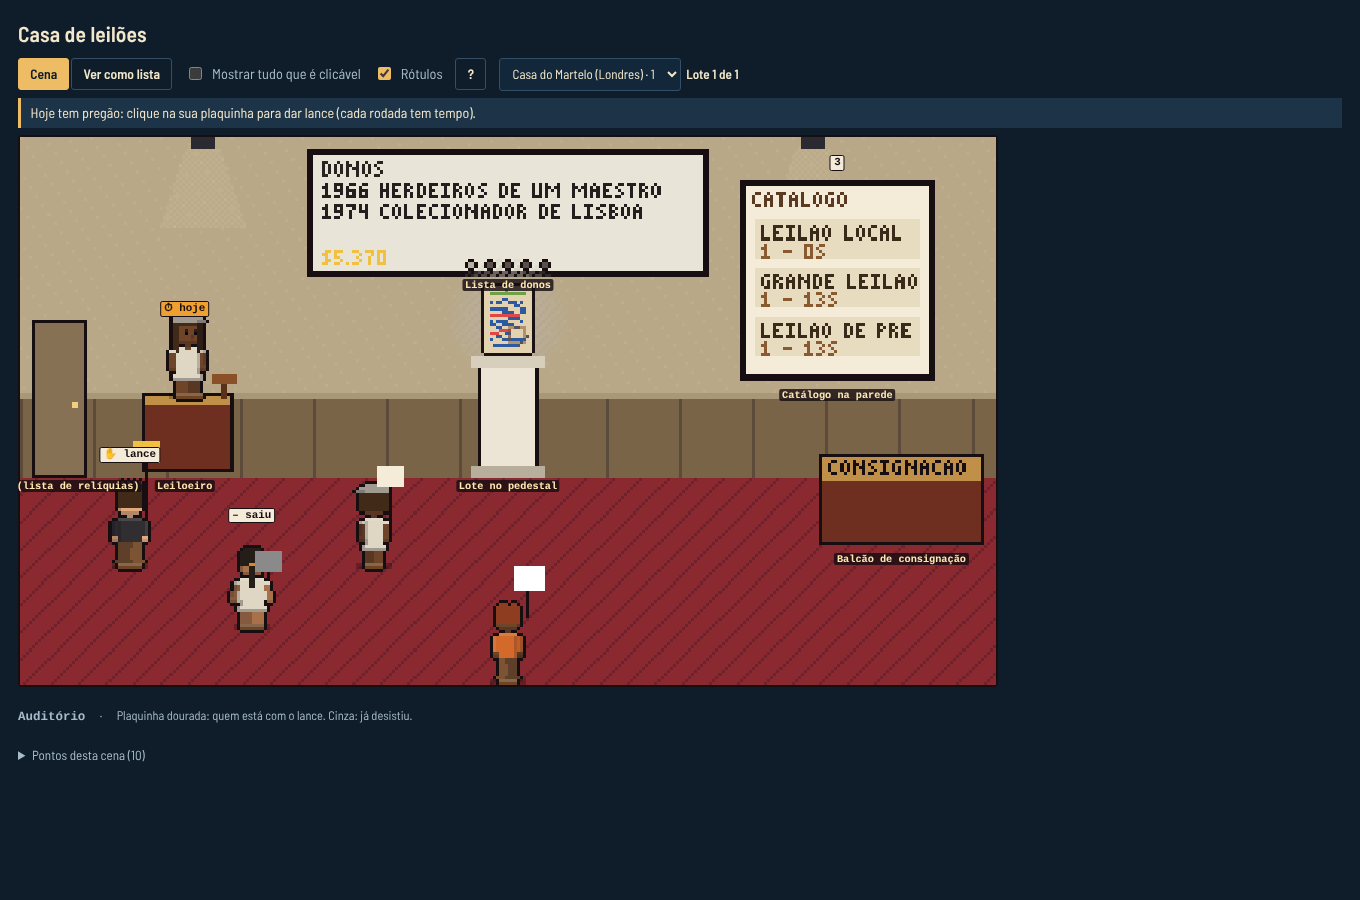
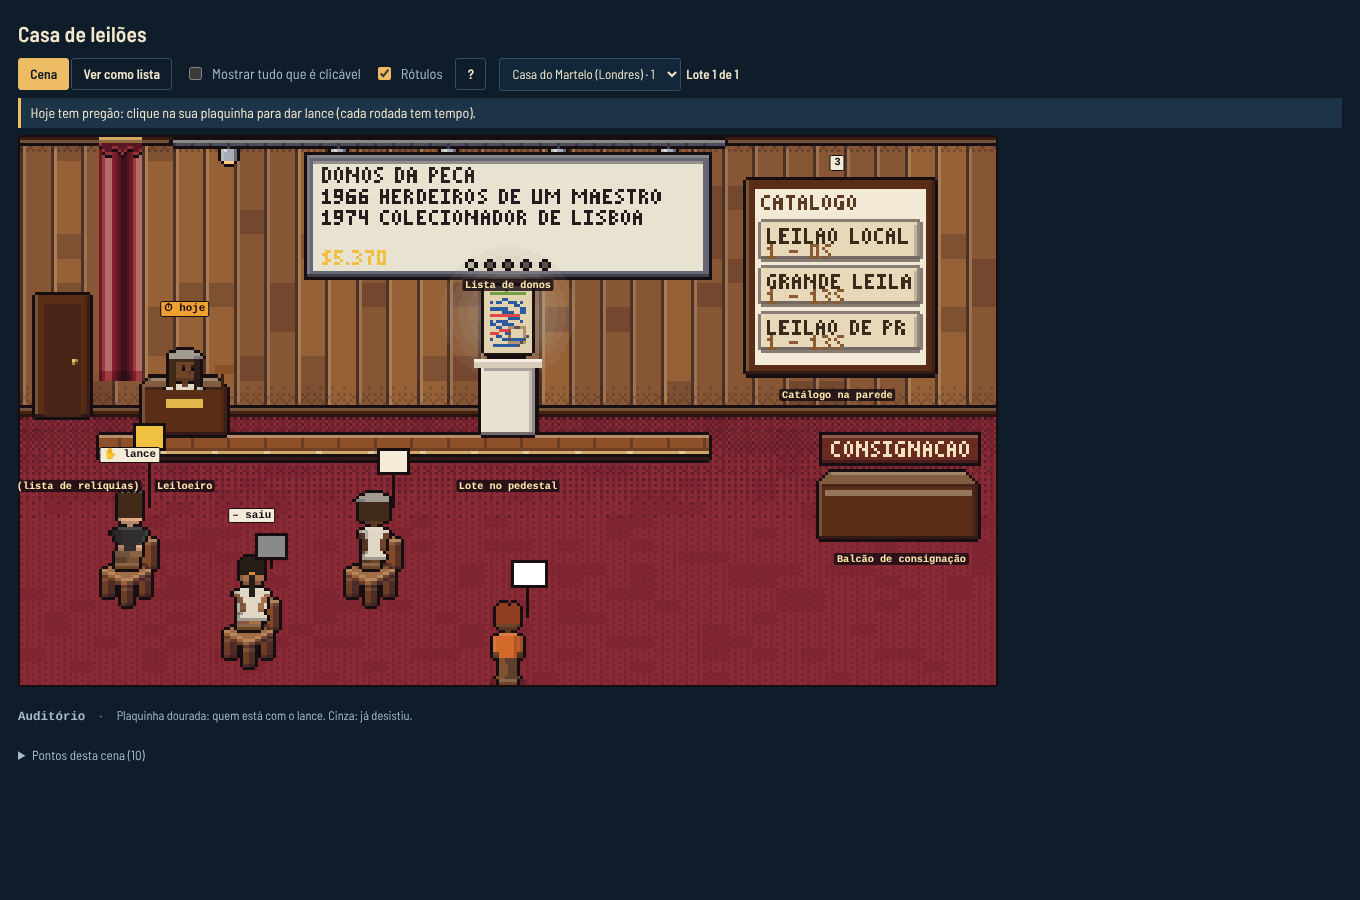
T: leilão — lustre à vista e catálogo legível; capturas
Claude-Session: https://claude.ai/code/session_01Wf4saEzHrs53J5zhDEAGcS

Changed region(s): [[0.0, 0.1244, 0.7412, 0.6844], [0.1544, 0.5911, 0.2162, 0.7467], [0.3706, 0.6222, 0.4015, 0.6844]]

diff --git a/src/ui/r31/auction31.ts b/src/ui/r31/auction31.ts
@@ -58,10 +58,12 @@ function paintRoom(p: Px, m: Auc31, pal: Palette): void {
   curtain(p, 26, 0, 14, 80, m.room === 'app' ? C('#5a6a8a') : C('#8a1e2a'));
   // luz: lustre no salão, refletores no auditório, faixa de LED depois
   if (m.room === 'salon') {
-    p.vline(160, 0, 4, pal.gold);
-    ellipseV(p, 160, 8, 16, 4, pal.gold);
-    for (let i = -14; i <= 14; i += 4) { discV(p, 160 + i, 13, 1, C('#fff4c8'), { ink: false }); p.put(160 + i, 15, C('#ffe080')); }
-    beam(p, 160, 14, 90, 30, C('#fff0c0'), 16);
+    for (const cx of [66]) { // à esquerda do telão (no centro ficaria escondido)
+      p.vline(cx, 0, 8, pal.gold);
+      ellipseV(p, cx, 13, 12, 4, pal.gold);
+      for (let i = -10; i <= 10; i += 4) { discV(p, cx + i, 18, 1, C('#fff4c8'), { ink: false }); p.put(cx + i, 20, C('#ffe080')); }
+      beam(p, cx, 20, 88, 22, C('#fff0c0'), 16);
+    }
   } else if (m.room === 'hall') lightRig(p, 1, pal, 5, 50, 230);
   else for (let x = 46; x < 236; x += 2) p.put(x, 1, (x >> 1) % 3 ? C('#80e0ff') : C('#ffffff'));
 }
@@ -91,9 +93,9 @@ function paintScene(cv: HTMLCanvasElement, s: GameState, m: Auc31): void {
   p.rect(241, 17, 56, 58, C('#f2ead6'));
   drawText(p, fitText(t(l('CATÁLOGO', 'CATALOGUE')), 52), 243, 19, C('#5a3a20'));
   m.picks.slice(0, 3).forEach((x, i) => {
-    box(p, 243, 28 + i * 15, 52, 12, C('#e6d8b8'), 0, lv(C('#e6d8b8'), 1.4));
+    box(p, 243, 28 + i * 15, 52, 13, C('#e6d8b8'), 0, lv(C('#e6d8b8'), 1.4));
     drawText(p, fitText(t(HOUSE31[x.house].name).toUpperCase(), 48), 245, 30 + i * 15, C('#3a2a1a'));
-    drawText(p, `${x.lots.length} - ${Math.max(0, x.w - s.week)}S`, 245, 35 + i * 15, C('#8a5a30'));
+    drawText(p, `${x.lots.length} - ${Math.max(0, x.w - s.week)}S`, 245, 36 + i * 15, C('#8a5a30'));
   });
   // palco com o púlpito e o pedestal
   stagePlatform(p, 26, 98, 200, 8, pal.wood, pal.woodDark);
